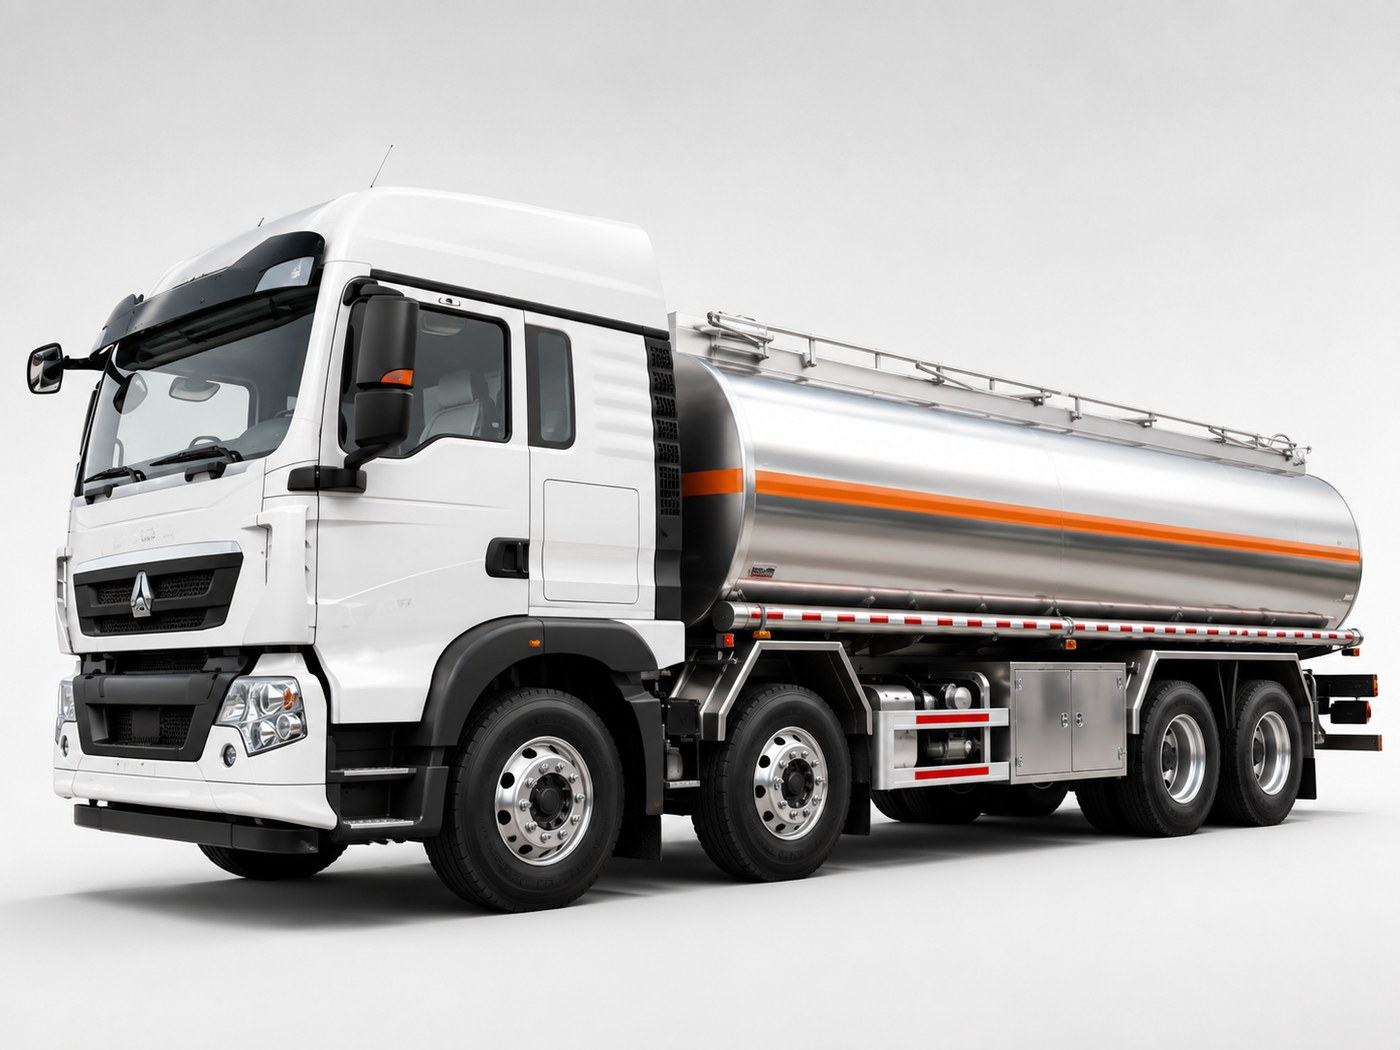
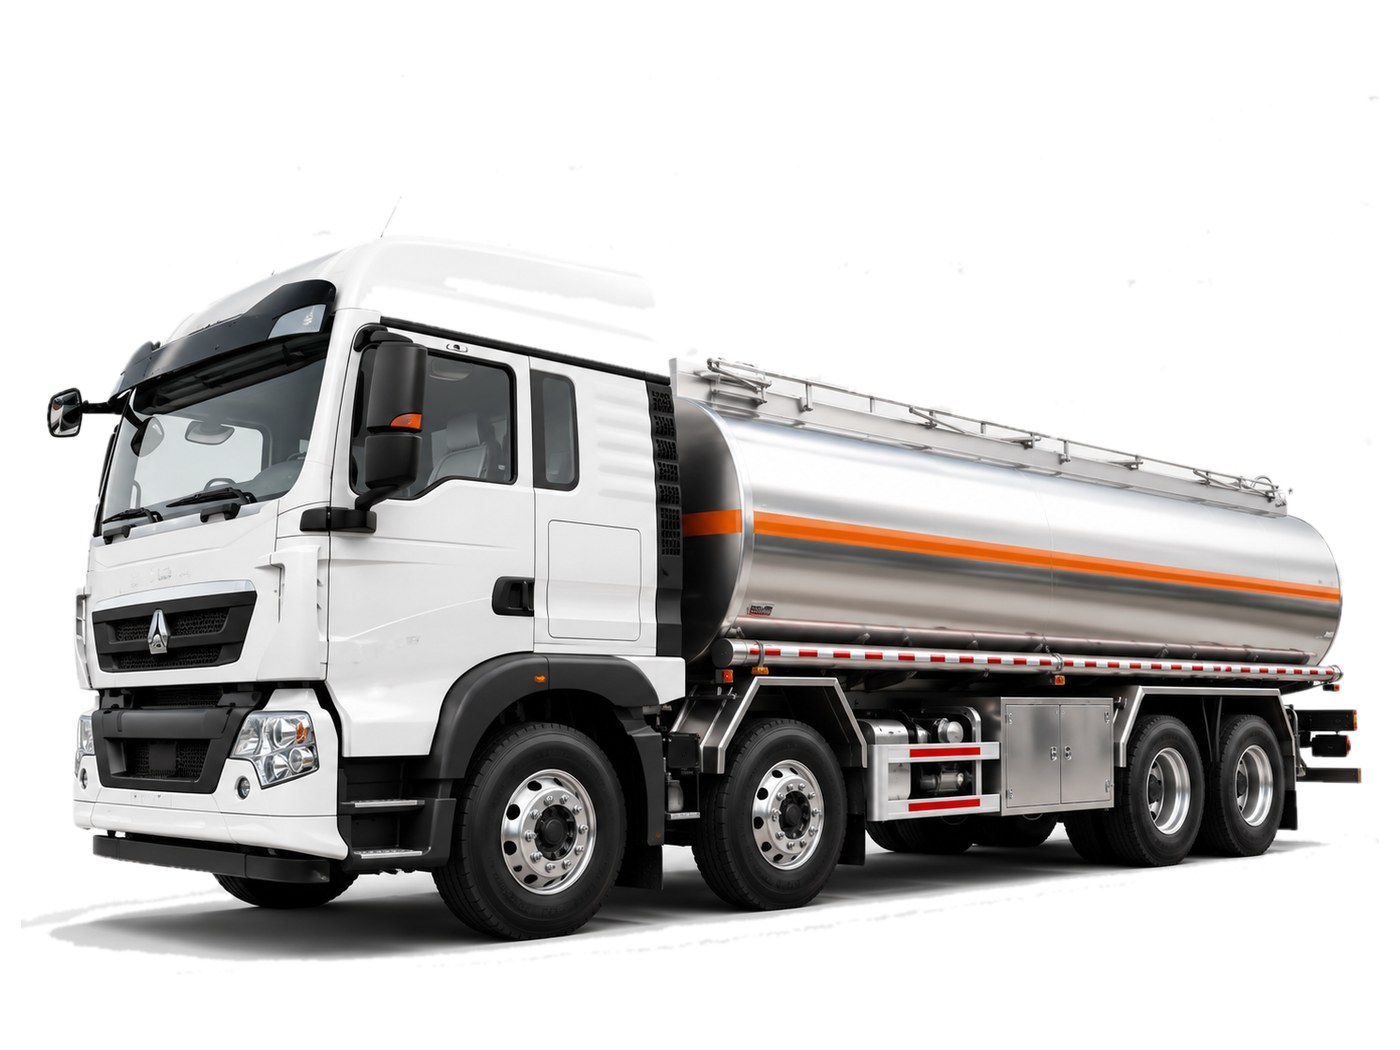
perf(engines): 首屏图片体积压到约 1/3;special 页按客户意见精简
engines 图片优化(整页图片请求 ~3.3MB → ~1.4MB):
- 最大的浪费是缩略图:74px 的小框在下载 1400px 原图,5 张约 1.2MB。
  改为 240px 专用缩略图,合计 51KB。
- LCP 首图原来直接给 1400px(155KB webp)填 ~440px 的框,新增 700w 档并
  按 sizes 选源,首图降到 49KB;同时在 <head> 预加载,不必等 HTML 解析到
  <img> 才开始下载。
- 通栏矿卡大图原带 fetchpriority="high",但首屏收窄后它已在折叠线以下,
  白白和 LCP 抢带宽 —— 改 loading="lazy";其 sizes 原写 50vw 也是错的
  (元素是通栏 100vw),会选到偏小的档位放大显示,一并修正并补 1200w 档。
- 下方 4 张故事图补 webp(合计 660KB → 291KB)。

special 页:
- 删掉页头那段说明文字(客户要求)。
- 移动电力车只保留半挂那张图,单图不需要轮播,直接换成静态 figure。
- 油罐车原图是灰色影棚底,与其余三张不一致:沿四边密集播种做背景漫水填充
  (单点种子跨不过整段渐变,会在渐变中间撕出毛边,所以每 18px 一个种子),
  再对掩膜做膨胀+羽化合成,车身与地面阴影保留完好,现已统一为纯白底。

页脚补上新增导航:Products 加 Special Vehicle,Company 加 Activity & News;
brand.js 是全站共享,各页 ?v= 一并更新以刷新缓存。

diff --git a/engines.html b/engines.html
@@ -21,10 +21,11 @@
 <meta name="twitter:description" content="Industrial diesel engines for mining, oil &amp; gas drilling and heavy-duty power from 74 to 4400 hp. Engine selection and quotation for haul trucks, excavators, drills and power systems.">
 <meta name="twitter:image" content="https://www.kstpower.com/assets/img/products/gen-hero-2172.jpg">
 <script type="application/ld+json">{"@context":"https://schema.org","@graph":[{"@type":"Organization","@id":"https://www.kstpower.com/#org","name":"Guangzhou KST Mechanical Equipment Co., Ltd","alternateName":"KST POWER","url":"https://www.kstpower.com/","description":"Supplier of Cummins, Caterpillar and Baudouin diesel generator sets, industrial engines, and oil & gas equipment for overseas buyers.","address":{"@type":"PostalAddress","addressLocality":"Guangzhou","addressRegion":"Guangdong","addressCountry":"CN"},"contactPoint":{"@type":"ContactPoint","contactType":"sales","email":"[email redacted]","availableLanguage":["en","zh"]},"areaServed":"Worldwide"},{"@type":"BreadcrumbList","itemListElement":[{"@type":"ListItem","position":1,"name":"Home","item":"https://www.kstpower.com/"},{"@type":"ListItem","position":2,"name":"Industrial Engines","item":"https://www.kstpower.com/engines.html"}]}]}</script>
+  <link rel="preload" as="image" href="assets/img/products/engine-slide-1-700.webp" type="image/webp" imagesrcset="assets/img/products/engine-slide-1-700.webp 700w, assets/img/products/engine-slide-1.webp 1400w" imagesizes="(max-width:900px) 92vw, 42vw" fetchpriority="high" />
   <link rel="stylesheet" href="assets/fonts/fonts.css" />
   <link rel="stylesheet" href="assets/css/styles.css?v=20260719-enghero" />
   <script>(function(){try{var l=localStorage.getItem('kst-lang');if(l==='en'||l==='ru'||l==='zh'){document.documentElement.setAttribute('data-lang',l);document.documentElement.setAttribute('lang',l==='zh'?'zh-CN':l);}}catch(e){}})();</script>
-  <script src="assets/js/brand.js?v=20260719-nav"></script>
+  <script src="assets/js/brand.js?v=20260719-footernav"></script>
 </head>
 <body class="engine-page">
   <a class="skip-link" href="#main"><span class="zh">跳到主要内容</span><span class="en">Skip to content</span></a>
@@ -56,28 +57,28 @@
             <button class="generator-gallery-arrow generator-gallery-arrow--prev" type="button" data-gallery-prev aria-label="上一张图片 Previous image">‹</button>
             <div class="generator-gallery-stage">
               <div class="generator-gallery-track">
-                <div class="generator-slide is-active"><picture><source type="image/webp" srcset="assets/img/products/engine-slide-1.webp" /><img src="assets/img/products/engine-slide-1.jpg" width="1400" height="1050" alt="康明斯 QSK95 高马力工业发动机 Cummins QSK95 high-horsepower industrial engine" loading="eager" decoding="async" /></picture></div>
-                <div class="generator-slide"><picture><source type="image/webp" srcset="assets/img/products/engine-slide-2.webp" /><img src="assets/img/products/engine-slide-2.jpg" width="1400" height="1050" alt="矿区现场与 QSK78 采矿发动机 QSK78 mining engine with site crew" loading="lazy" decoding="async" /></picture></div>
-                <div class="generator-slide"><picture><source type="image/webp" srcset="assets/img/products/engine-slide-3.webp" /><img src="assets/img/products/engine-slide-3.jpg" width="1400" height="1050" alt="矿用重型矿卡动力方案 Haul truck power package" loading="lazy" decoding="async" /></picture></div>
-                <div class="generator-slide"><picture><source type="image/webp" srcset="assets/img/products/engine-slide-4.webp" /><img src="assets/img/products/engine-slide-4.jpg" width="1400" height="1050" alt="钻机配套工业发动机 Industrial engine for drilling rigs" loading="lazy" decoding="async" /></picture></div>
-                <div class="generator-slide"><picture><source type="image/webp" srcset="assets/img/products/engine-slide-5.webp" /><img src="assets/img/products/engine-slide-5.jpg" width="1400" height="1050" alt="露天矿钻机动力系统 Surface drill power system" loading="lazy" decoding="async" /></picture></div>
+                <div class="generator-slide is-active"><picture><source type="image/webp" srcset="assets/img/products/engine-slide-1-700.webp 700w, assets/img/products/engine-slide-1.webp 1400w" sizes="(max-width:900px) 92vw, 42vw" /><img src="assets/img/products/engine-slide-1-700.jpg" srcset="assets/img/products/engine-slide-1-700.jpg 700w, assets/img/products/engine-slide-1.jpg 1400w" sizes="(max-width:900px) 92vw, 42vw" width="1400" height="1050" alt="康明斯 QSK95 高马力工业发动机 Cummins QSK95 high-horsepower industrial engine" loading="eager" fetchpriority="high" decoding="async" /></picture></div>
+                <div class="generator-slide"><picture><source type="image/webp" srcset="assets/img/products/engine-slide-2-700.webp 700w, assets/img/products/engine-slide-2.webp 1400w" sizes="(max-width:900px) 92vw, 42vw" /><img src="assets/img/products/engine-slide-2-700.jpg" srcset="assets/img/products/engine-slide-2-700.jpg 700w, assets/img/products/engine-slide-2.jpg 1400w" sizes="(max-width:900px) 92vw, 42vw" width="1400" height="1050" alt="矿区现场与 QSK78 采矿发动机 QSK78 mining engine with site crew" loading="lazy" decoding="async" /></picture></div>
+                <div class="generator-slide"><picture><source type="image/webp" srcset="assets/img/products/engine-slide-3-700.webp 700w, assets/img/products/engine-slide-3.webp 1400w" sizes="(max-width:900px) 92vw, 42vw" /><img src="assets/img/products/engine-slide-3-700.jpg" srcset="assets/img/products/engine-slide-3-700.jpg 700w, assets/img/products/engine-slide-3.jpg 1400w" sizes="(max-width:900px) 92vw, 42vw" width="1400" height="1050" alt="矿用重型矿卡动力方案 Haul truck power package" loading="lazy" decoding="async" /></picture></div>
+                <div class="generator-slide"><picture><source type="image/webp" srcset="assets/img/products/engine-slide-4-700.webp 700w, assets/img/products/engine-slide-4.webp 1400w" sizes="(max-width:900px) 92vw, 42vw" /><img src="assets/img/products/engine-slide-4-700.jpg" srcset="assets/img/products/engine-slide-4-700.jpg 700w, assets/img/products/engine-slide-4.jpg 1400w" sizes="(max-width:900px) 92vw, 42vw" width="1400" height="1050" alt="钻机配套工业发动机 Industrial engine for drilling rigs" loading="lazy" decoding="async" /></picture></div>
+                <div class="generator-slide"><picture><source type="image/webp" srcset="assets/img/products/engine-slide-5-700.webp 700w, assets/img/products/engine-slide-5.webp 1400w" sizes="(max-width:900px) 92vw, 42vw" /><img src="assets/img/products/engine-slide-5-700.jpg" srcset="assets/img/products/engine-slide-5-700.jpg 700w, assets/img/products/engine-slide-5.jpg 1400w" sizes="(max-width:900px) 92vw, 42vw" width="1400" height="1050" alt="露天矿钻机动力系统 Surface drill power system" loading="lazy" decoding="async" /></picture></div>
               </div>
             </div>
             <button class="generator-gallery-arrow generator-gallery-arrow--next" type="button" data-gallery-next aria-label="下一张图片 Next image">›</button>
             <div class="generator-gallery-thumbs" aria-label="图片选择 Select image">
-              <button type="button" class="is-active" data-gallery-dot="0" aria-label="图片 1"><img src="assets/img/products/engine-slide-1.jpg" alt="" loading="lazy" /></button>
-              <button type="button" data-gallery-dot="1" aria-label="图片 2"><img src="assets/img/products/engine-slide-2.jpg" alt="" loading="lazy" /></button>
-              <button type="button" data-gallery-dot="2" aria-label="图片 3"><img src="assets/img/products/engine-slide-3.jpg" alt="" loading="lazy" /></button>
-              <button type="button" data-gallery-dot="3" aria-label="图片 4"><img src="assets/img/products/engine-slide-4.jpg" alt="" loading="lazy" /></button>
-              <button type="button" data-gallery-dot="4" aria-label="图片 5"><img src="assets/img/products/engine-slide-5.jpg" alt="" loading="lazy" /></button>
+              <button type="button" class="is-active" data-gallery-dot="0" aria-label="图片 1"><img src="assets/img/products/engine-slide-1-thumb.jpg" alt="" loading="lazy" decoding="async" /></button>
+              <button type="button" data-gallery-dot="1" aria-label="图片 2"><img src="assets/img/products/engine-slide-2-thumb.jpg" alt="" loading="lazy" decoding="async" /></button>
+              <button type="button" data-gallery-dot="2" aria-label="图片 3"><img src="assets/img/products/engine-slide-3-thumb.jpg" alt="" loading="lazy" decoding="async" /></button>
+              <button type="button" data-gallery-dot="3" aria-label="图片 4"><img src="assets/img/products/engine-slide-4-thumb.jpg" alt="" loading="lazy" decoding="async" /></button>
+              <button type="button" data-gallery-dot="4" aria-label="图片 5"><img src="assets/img/products/engine-slide-5-thumb.jpg" alt="" loading="lazy" decoding="async" /></button>
             </div>
           </div>
         </div>
       </div>
       <figure class="engine-editorial-image">
         <picture>
-          <source type="image/webp" srcset="assets/img/products/engine-truck-1000.webp 1000w, assets/img/products/engine-truck-1724.webp 1724w" sizes="(max-width:900px) 100vw, 50vw" />
-          <img src="assets/img/products/engine-truck-1724.jpg" srcset="assets/img/products/engine-truck-1000.jpg 1000w, assets/img/products/engine-truck-1724.jpg 1724w" sizes="(max-width:900px) 100vw, 50vw" width="1724" height="912" alt="露天矿山重型矿卡 Mining haul truck in an open pit" fetchpriority="high" decoding="async" />
+          <source type="image/webp" srcset="assets/img/products/engine-truck-1000.webp 1000w, assets/img/products/engine-truck-1200.webp 1200w, assets/img/products/engine-truck-1724.webp 1724w" sizes="100vw" />
+          <img src="assets/img/products/engine-truck-1200.jpg" srcset="assets/img/products/engine-truck-1000.jpg 1000w, assets/img/products/engine-truck-1200.jpg 1200w, assets/img/products/engine-truck-1724.jpg 1724w" sizes="100vw" width="1724" height="912" alt="露天矿山重型矿卡 Mining haul truck in an open pit" loading="lazy" decoding="async" />
         </picture>
       </figure>
     </section>
@@ -107,7 +108,7 @@
 
     <section class="engine-story">
       <figure class="engine-story-panorama">
-        <img src="assets/img/products/mining-handbook/mine-panorama-mountains.jpg" alt="Open pit mine with mountains in the background" loading="lazy" />
+        <picture><source type="image/webp" srcset="assets/img/products/mining-handbook/mine-panorama-mountains.webp" /><img src="assets/img/products/mining-handbook/mine-panorama-mountains.jpg" alt="Open pit mine with mountains in the background" loading="lazy" decoding="async" /></picture>
       </figure>
       <div class="wrap engine-story-grid">
         <div class="engine-story-copy">
@@ -125,7 +126,7 @@
           </article>
         </div>
         <figure class="engine-story-media">
-          <img src="assets/img/products/mining-handbook/drill-rig.jpg" alt="Large crawler drill rig at a mine site" loading="lazy" />
+          <picture><source type="image/webp" srcset="assets/img/products/mining-handbook/drill-rig.webp" /><img src="assets/img/products/mining-handbook/drill-rig.jpg" alt="Large crawler drill rig at a mine site" loading="lazy" decoding="async" /></picture>
         </figure>
       </div>
     </section>
@@ -150,7 +151,7 @@
           </div>
         </div>
         <figure class="engine-uptime-media">
-          <img src="assets/img/products/mining-handbook/uptime-excavator.jpg" alt="Excavator loading a haul truck in a mine" loading="lazy" />
+          <picture><source type="image/webp" srcset="assets/img/products/mining-handbook/uptime-excavator.webp" /><img src="assets/img/products/mining-handbook/uptime-excavator.jpg" alt="Excavator loading a haul truck in a mine" loading="lazy" decoding="async" /></picture>
         </figure>
       </div>
     </section>
@@ -175,7 +176,7 @@
           <h2><span class="zh">告诉我们设备、功率和工况，快速匹配型号。</span><span class="en">Share equipment, power and duty - we will match the model.</span></h2>
         </div>
         <div class="engine-service-card">
-          <img src="assets/img/products/mining-handbook/mining-haul-trucks-row.jpg" alt="Mining haul trucks" loading="lazy" />
+          <picture><source type="image/webp" srcset="assets/img/products/mining-handbook/mining-haul-trucks-row.webp" /><img src="assets/img/products/mining-handbook/mining-haul-trucks-row.jpg" alt="Mining haul trucks" loading="lazy" decoding="async" /></picture>
           <p><span class="zh">适配矿卡、挖掘机、装载机、钻机及油气钻井动力系统。</span><span class="en">For haul trucks, excavators, loaders, drills and oil and gas power systems.</span></p>
           <a class="btn btn-primary" href="about.html#contact"><span class="zh">发送询盘</span><span class="en">Send inquiry</span></a>
         </div>

diff --git a/special.html b/special.html
@@ -25,7 +25,7 @@
   <link rel="stylesheet" href="assets/fonts/fonts.css" />
   <link rel="stylesheet" href="assets/css/styles.css?v=20260719-special" />
   <script>(function(){try{var l=localStorage.getItem('kst-lang');if(l==='en'||l==='ru'||l==='zh'){document.documentElement.setAttribute('data-lang',l);document.documentElement.setAttribute('lang',l==='zh'?'zh-CN':l);}}catch(e){}})();</script>
-  <script src="assets/js/brand.js?v=20260719-refuse"></script>
+  <script src="assets/js/brand.js?v=20260719-footernav"></script>
 </head>
 <body class="generator-page">
   <a class="skip-link" href="#main"><span class="zh">跳到主要内容</span><span class="en">Skip to content</span></a>
@@ -37,7 +37,6 @@
       <div class="wrap">
         <nav class="breadcrumb" aria-label="Breadcrumb"><ol><li><a href="index.html"><span class="zh">首页</span><span class="en">Home</span></a></li><li aria-current="page"><span class="zh">特种车辆</span><span class="en">Special Vehicle</span></li></ol></nav>
         <h1 id="special-title"><span class="zh">特种车辆</span><span class="en">Special Vehicle</span></h1>
-        <p class="lead"><span class="zh">基于成熟底盘打造的专用车辆——移动电力车、扫地车、罐车与垃圾车，面向供电保障、市政清扫、液体运输与环卫作业。</span><span class="en">Special-purpose vehicles built on proven chassis — mobile power, sweeper, tanker and refuse trucks for power supply, municipal cleaning, liquid transport and waste collection.</span></p>
       </div>
     </section>
 
@@ -51,24 +50,8 @@
         </div>
 
         <div class="generator-brand-layout">
-          <figure class="generator-brand-visual">
-            <div class="generator-gallery" data-generator-gallery aria-label="移动电力车图片">
-              <div class="generator-gallery-stage">
-                <div class="generator-gallery-track">
-                  <div class="generator-slide is-active"><img src="assets/img/products/special/mobile-power-01.jpg" alt="移动电力车 单机版 Mobile power truck — rigid" loading="eager" /></div>
-                  <div class="generator-slide"><img src="assets/img/products/special/mobile-power-02.jpg" alt="移动电力车 半挂大功率版 Mobile power truck — semi-trailer" loading="lazy" /></div>
-                  <div class="generator-slide"><img src="assets/img/products/special/mobile-power-03.jpg" alt="移动电力车 轻型版 Mobile power truck — light-duty" loading="lazy" /></div>
-                </div>
-                <button class="generator-gallery-arrow generator-gallery-arrow--prev" type="button" data-gallery-prev aria-label="上一张图片 Previous image">‹</button>
-                <button class="generator-gallery-arrow generator-gallery-arrow--next" type="button" data-gallery-next aria-label="下一张图片 Next image">›</button>
-              </div>
-              <div class="generator-gallery-thumbs" aria-label="图片选择">
-                <button type="button" class="is-active" data-gallery-dot="0" aria-label="图片 1"><img src="assets/img/products/special/mobile-power-01.jpg" alt="" /></button>
-                <button type="button" data-gallery-dot="1" aria-label="图片 2"><img src="assets/img/products/special/mobile-power-02.jpg" alt="" /></button>
-                <button type="button" data-gallery-dot="2" aria-label="图片 3"><img src="assets/img/products/special/mobile-power-03.jpg" alt="" /></button>
-              </div>
-            </div>
-            <figcaption><span class="zh">移动电力车 · 单机 / 半挂 / 轻型</span><span class="en">Mobile power truck · rigid / semi-trailer / light-duty</span></figcaption>
+          <figure class="generator-brand-visual special-vehicle-figure">
+            <img src="assets/img/products/special/mobile-power-02.jpg" alt="移动电力车 半挂大功率版 Mobile power truck — semi-trailer" loading="lazy" decoding="async" />
           </figure>
           <div class="generator-brand-content">
             <h3><span class="zh">机动供电，随到随发</span><span class="en">Mobile power, ready on arrival</span></h3>

diff --git a/about.html b/about.html
@@ -40,7 +40,7 @@
       } catch (e) {}
     })();
   </script>
-  <script src="assets/js/brand.js?v=20260719-nav"></script>
+  <script src="assets/js/brand.js?v=20260719-footernav"></script>
 </head>
 
 <body>

diff --git a/assets/js/brand.js b/assets/js/brand.js
@@ -236,12 +236,14 @@
                   link('generators.html', 'nav.generators', 'Power Generation') +
                   link('engines.html', 'nav.engines', 'Industrial Engines') +
                   link('oilfield.html', 'nav.oilfield', 'Oil &amp; Gas') +
+                  link('special.html', 'nav.special', 'Special Vehicle') +
                 '</ul>' +
               '</div>' +
               '<div>' +
                 '<h5 data-i18n-key="footer.company">Company</h5><ul>' +
                   link('about.html', 'nav.company', 'About') +
                   link('service.html', 'nav.service', 'Service') +
+                  link('news.html', 'nav.news', 'Activity &amp; News') +
                 '</ul>' +
               '</div>' +
               '<div>' +

diff --git a/generators.html b/generators.html
@@ -27,7 +27,7 @@
   <!-- 预加载 hero 大图(LCP 优化) -->
   <link rel="preload" as="image" href="assets/img/products/gen-hero-2172.webp" type="image/webp" imagesrcset="assets/img/products/gen-hero-1200.webp 1200w, assets/img/products/gen-hero-2172.webp 2172w" imagesizes="100vw" />
   <script>(function(){try{var l=localStorage.getItem('kst-lang');if(l==='en'||l==='ru'||l==='zh'){document.documentElement.setAttribute('data-lang',l);document.documentElement.setAttribute('lang',l==='zh'?'zh-CN':l);}}catch(e){}})();</script>
-  <script src="assets/js/brand.js?v=20260719-nav"></script>
+  <script src="assets/js/brand.js?v=20260719-footernav"></script>
 </head>
 <body class="generator-page">
   <a class="skip-link" href="#main"><span class="zh">跳到主要内容</span><span class="en">Skip to content</span></a>

diff --git a/index.html b/index.html
@@ -303,7 +303,7 @@ footer .watermark{position:absolute;left:0;right:0;bottom:-36px;text-align:cente
 @media (prefers-reduced-motion:reduce){.panel .art{animation:none}.scrolldn .stem{animation:none}*{transition-duration:.01ms!important}}
 html[data-lang="en"] .apps .shead>.en,html[data-lang="en"] .stats .shead>.en,html[data-lang="en"] .models .shead>.en,html[data-lang="en"] .app .cap>span{display:none}
 </style>
-<script src="assets/js/brand.js?v=20260719-nav"></script>
+<script src="assets/js/brand.js?v=20260719-footernav"></script>
 </head>
 <body>
 

diff --git a/news.html b/news.html
@@ -41,7 +41,7 @@
     }
   </style>
   <script>(function(){try{var l=localStorage.getItem('kst-lang');if(l==='en'||l==='ru'||l==='zh'){document.documentElement.setAttribute('data-lang',l);document.documentElement.setAttribute('lang',l==='zh'?'zh-CN':l);}}catch(e){}})();</script>
-  <script src="assets/js/brand.js?v=20260719-nav"></script>
+  <script src="assets/js/brand.js?v=20260719-footernav"></script>
 </head>
 <body class="generator-page">
   <a class="skip-link" href="#main"><span class="zh">跳到主要内容</span><span class="en">Skip to content</span></a>

diff --git a/oilfield.html b/oilfield.html
@@ -25,7 +25,7 @@
   <link rel="stylesheet" href="assets/fonts/fonts.css" />
   <link rel="stylesheet" href="assets/css/styles.css?v=20260718-drill3" />
   <script>(function(){try{var l=localStorage.getItem('kst-lang');if(l==='en'||l==='ru'||l==='zh'){document.documentElement.setAttribute('data-lang',l);document.documentElement.setAttribute('lang',l==='zh'?'zh-CN':l);}}catch(e){}})();</script>
-  <script src="assets/js/brand.js?v=20260719-nav"></script>
+  <script src="assets/js/brand.js?v=20260719-footernav"></script>
 </head>
 <body>
   <a class="skip-link" href="#main"><span class="zh">跳到主要内容</span><span class="en">Skip to content</span></a>

diff --git a/service.html b/service.html
@@ -39,7 +39,7 @@
       } catch (e) {}
     })();
   </script>
-  <script src="assets/js/brand.js?v=20260719-nav"></script>
+  <script src="assets/js/brand.js?v=20260719-footernav"></script>
 </head>
 
 <body>